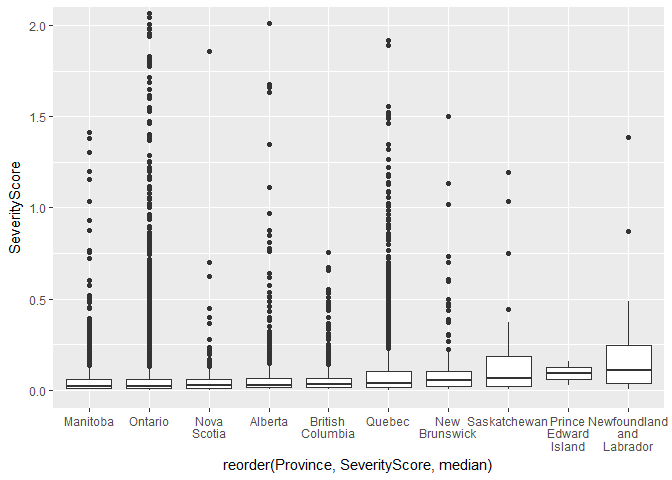
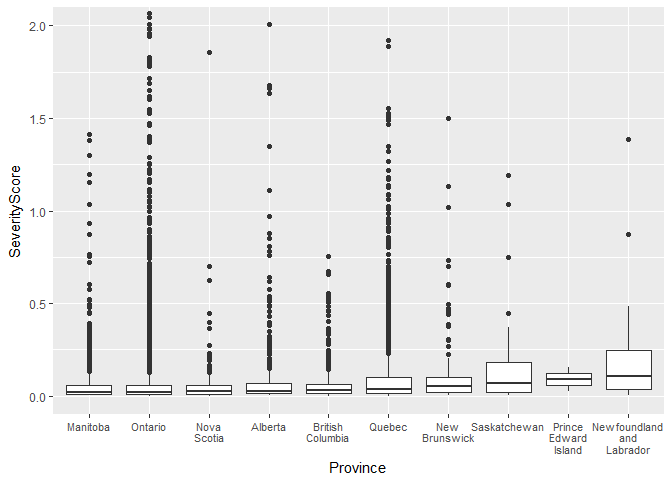
Adding new plots and code

diff --git a/Analysis/Analyzing-Hazard-Data.md b/Analysis/Analyzing-Hazard-Data.md
@@ -133,7 +133,8 @@ Not very useful, unfortunately, so lets focus in on the lower ranges.
 ``` r
 plotcan %>%
   ggplot(aes(reorder(Province, SeverityScore, median), SeverityScore)) + geom_boxplot() +
-  coord_cartesian(ylim = c(0, 2))
+  coord_cartesian(ylim = c(0, 2)) + labs(x = "Province") + 
+  theme(axis.text.x = element_text(size = 8), )
 ```
 
 ![](Analyzing-Hazard-Data_files/figure-markdown_github/unnamed-chunk-8-1.png)
@@ -174,3 +175,24 @@ hazardcan %>%
     ## 1    46
 
 Of the three provinces with the highest median severity scores, none has more than 50 hazardous driving zones. In fact, PEI only has 2!
+
+``` r
+severityprov <- hazardcan %>%
+  group_by(Province) %>%
+  summarise(Areas = n()) %>%
+  inner_join(populationprov, by = "Province") %>%
+  mutate(AreasPerCapita = Areas / Population)
+
+plotseverityprov <- severityprov
+
+plotseverityprov$Province <- gsub(" ", "\n", plotseverityprov$Province)
+
+plotseverityprov %>%
+  ggplot(aes(reorder(Province, AreasPerCapita),AreasPerCapita)) + 
+  geom_bar(stat = "identity") + labs(x = "Province") + 
+  theme(axis.text.x = element_text(size = 8), )
+```
+
+![](Analyzing-Hazard-Data_files/figure-markdown_github/unnamed-chunk-10-1.png)
+
+PEI, Newfoundland, and Saskatchewan's hazardous driving areas have the highest severity scores, but they are also the provinces with the fewest number of hazardous driving areas in proportion to their population.
